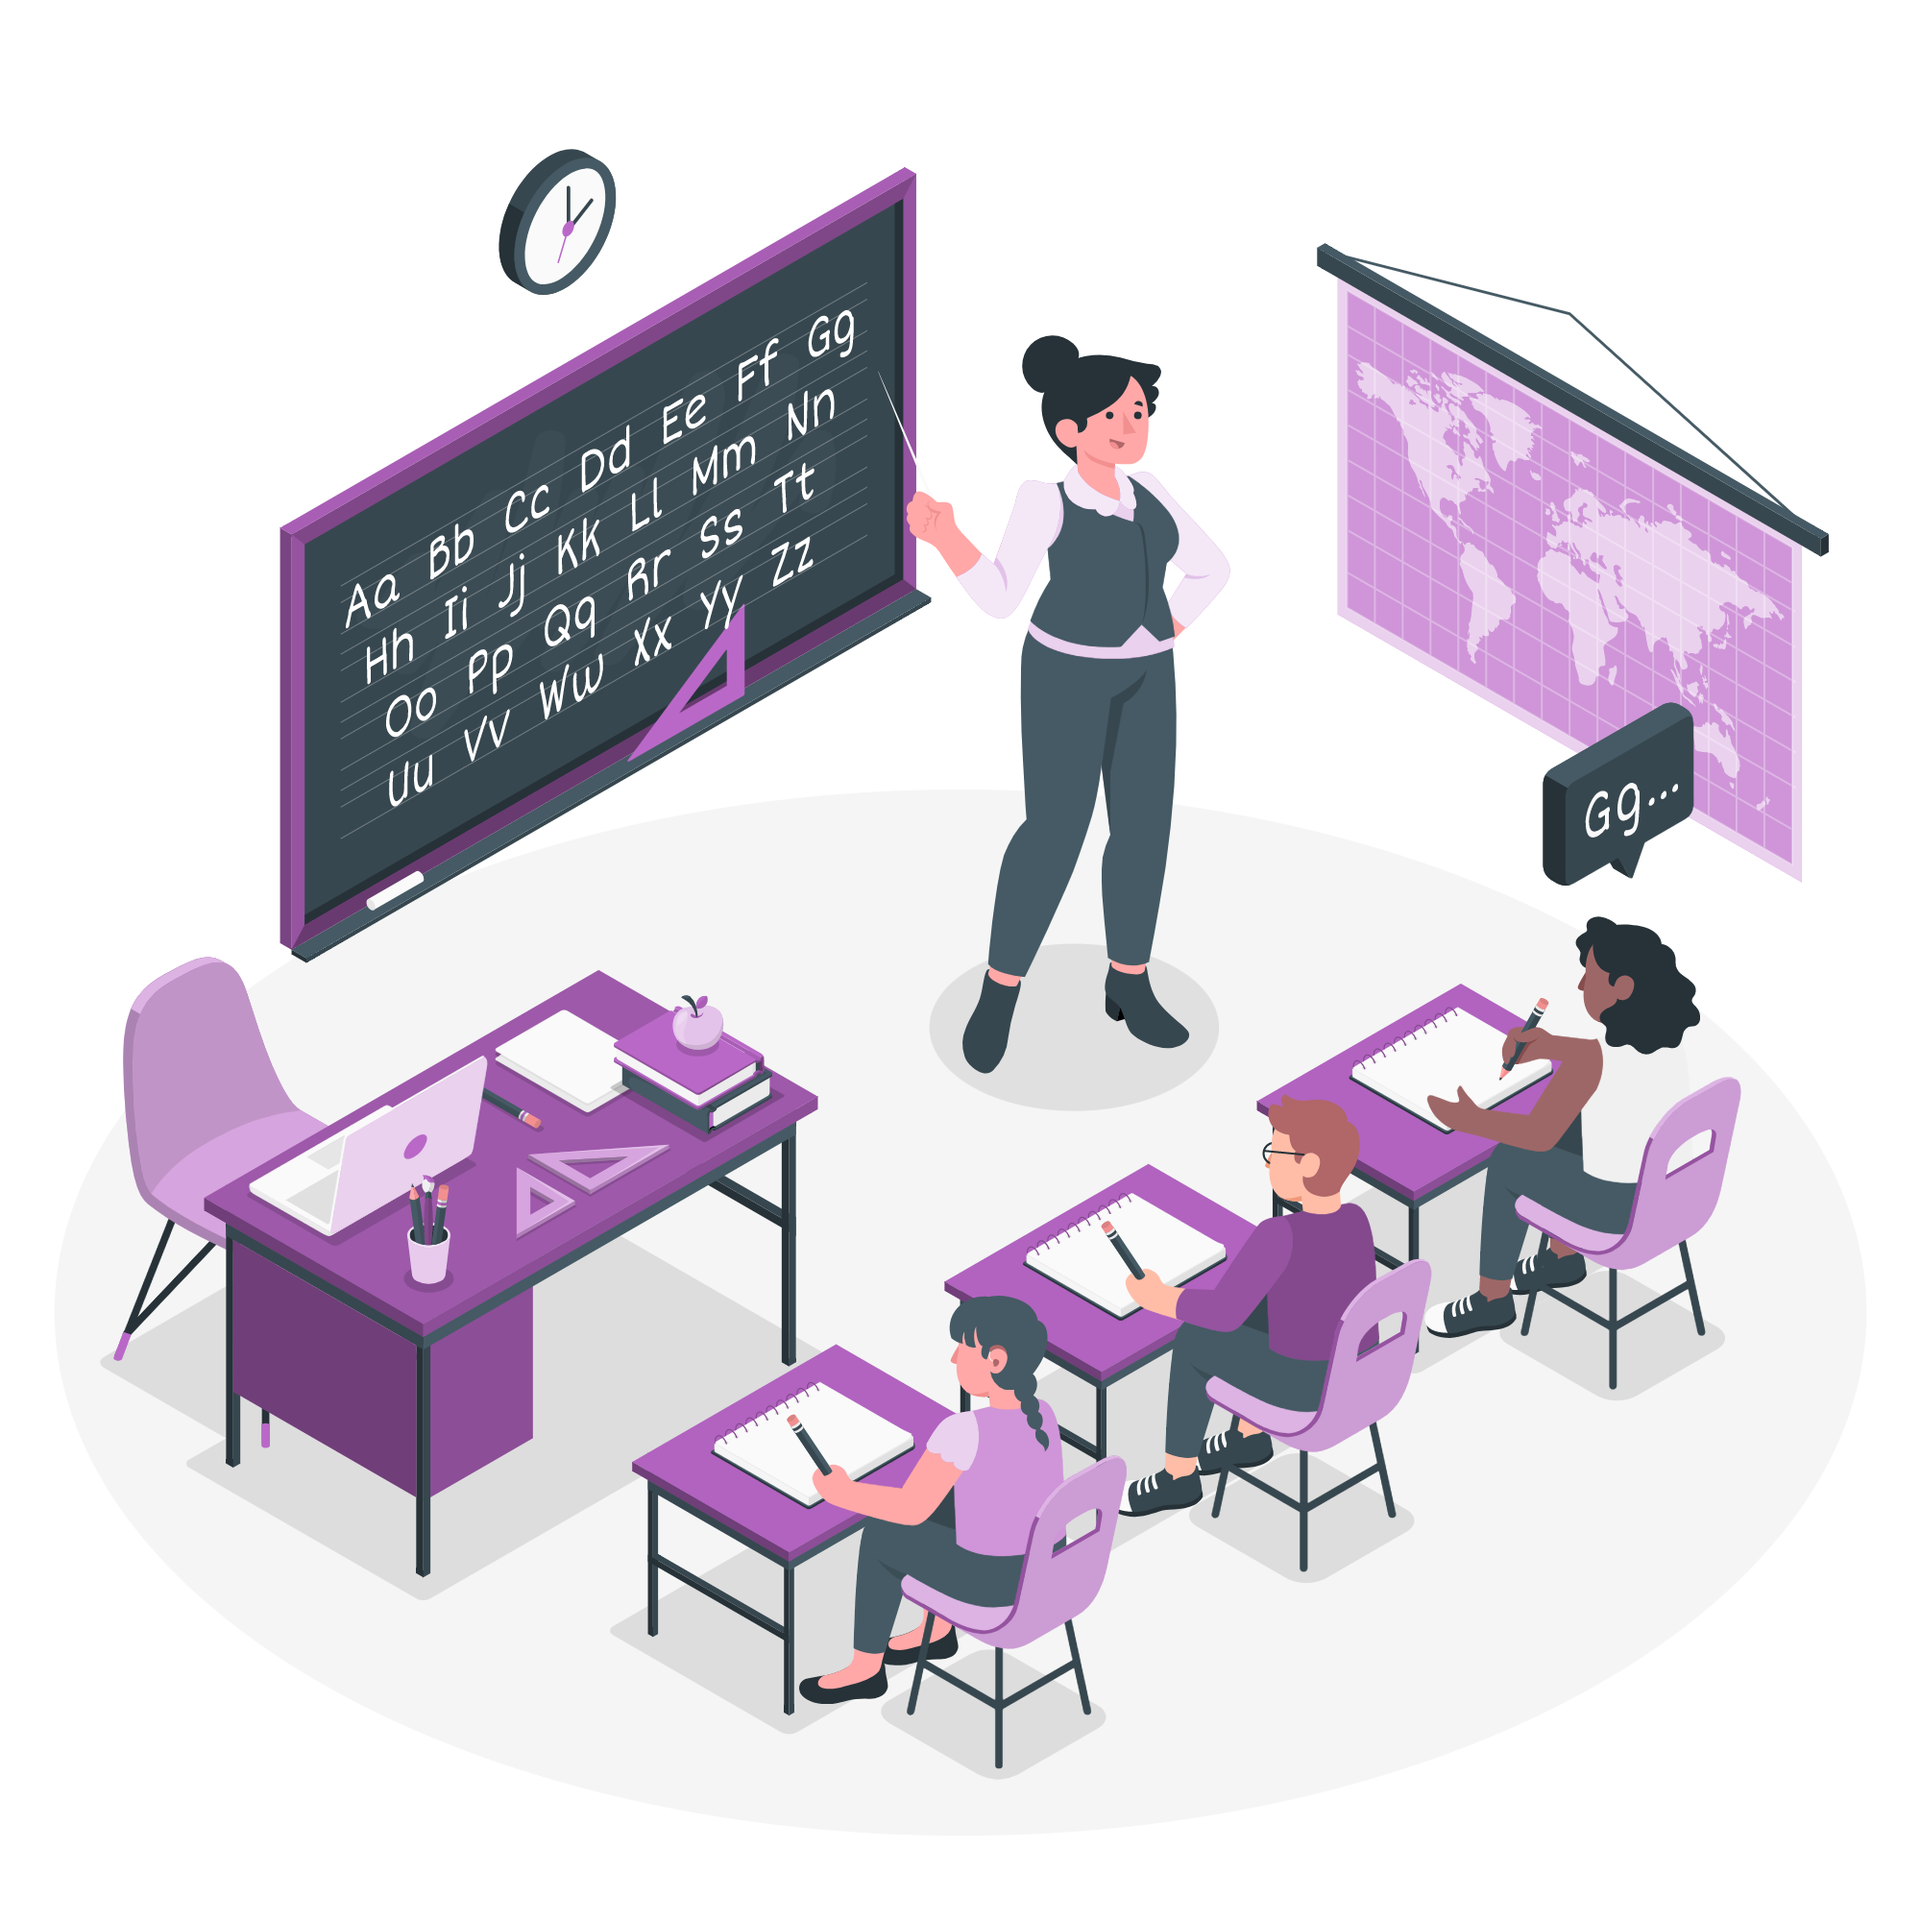
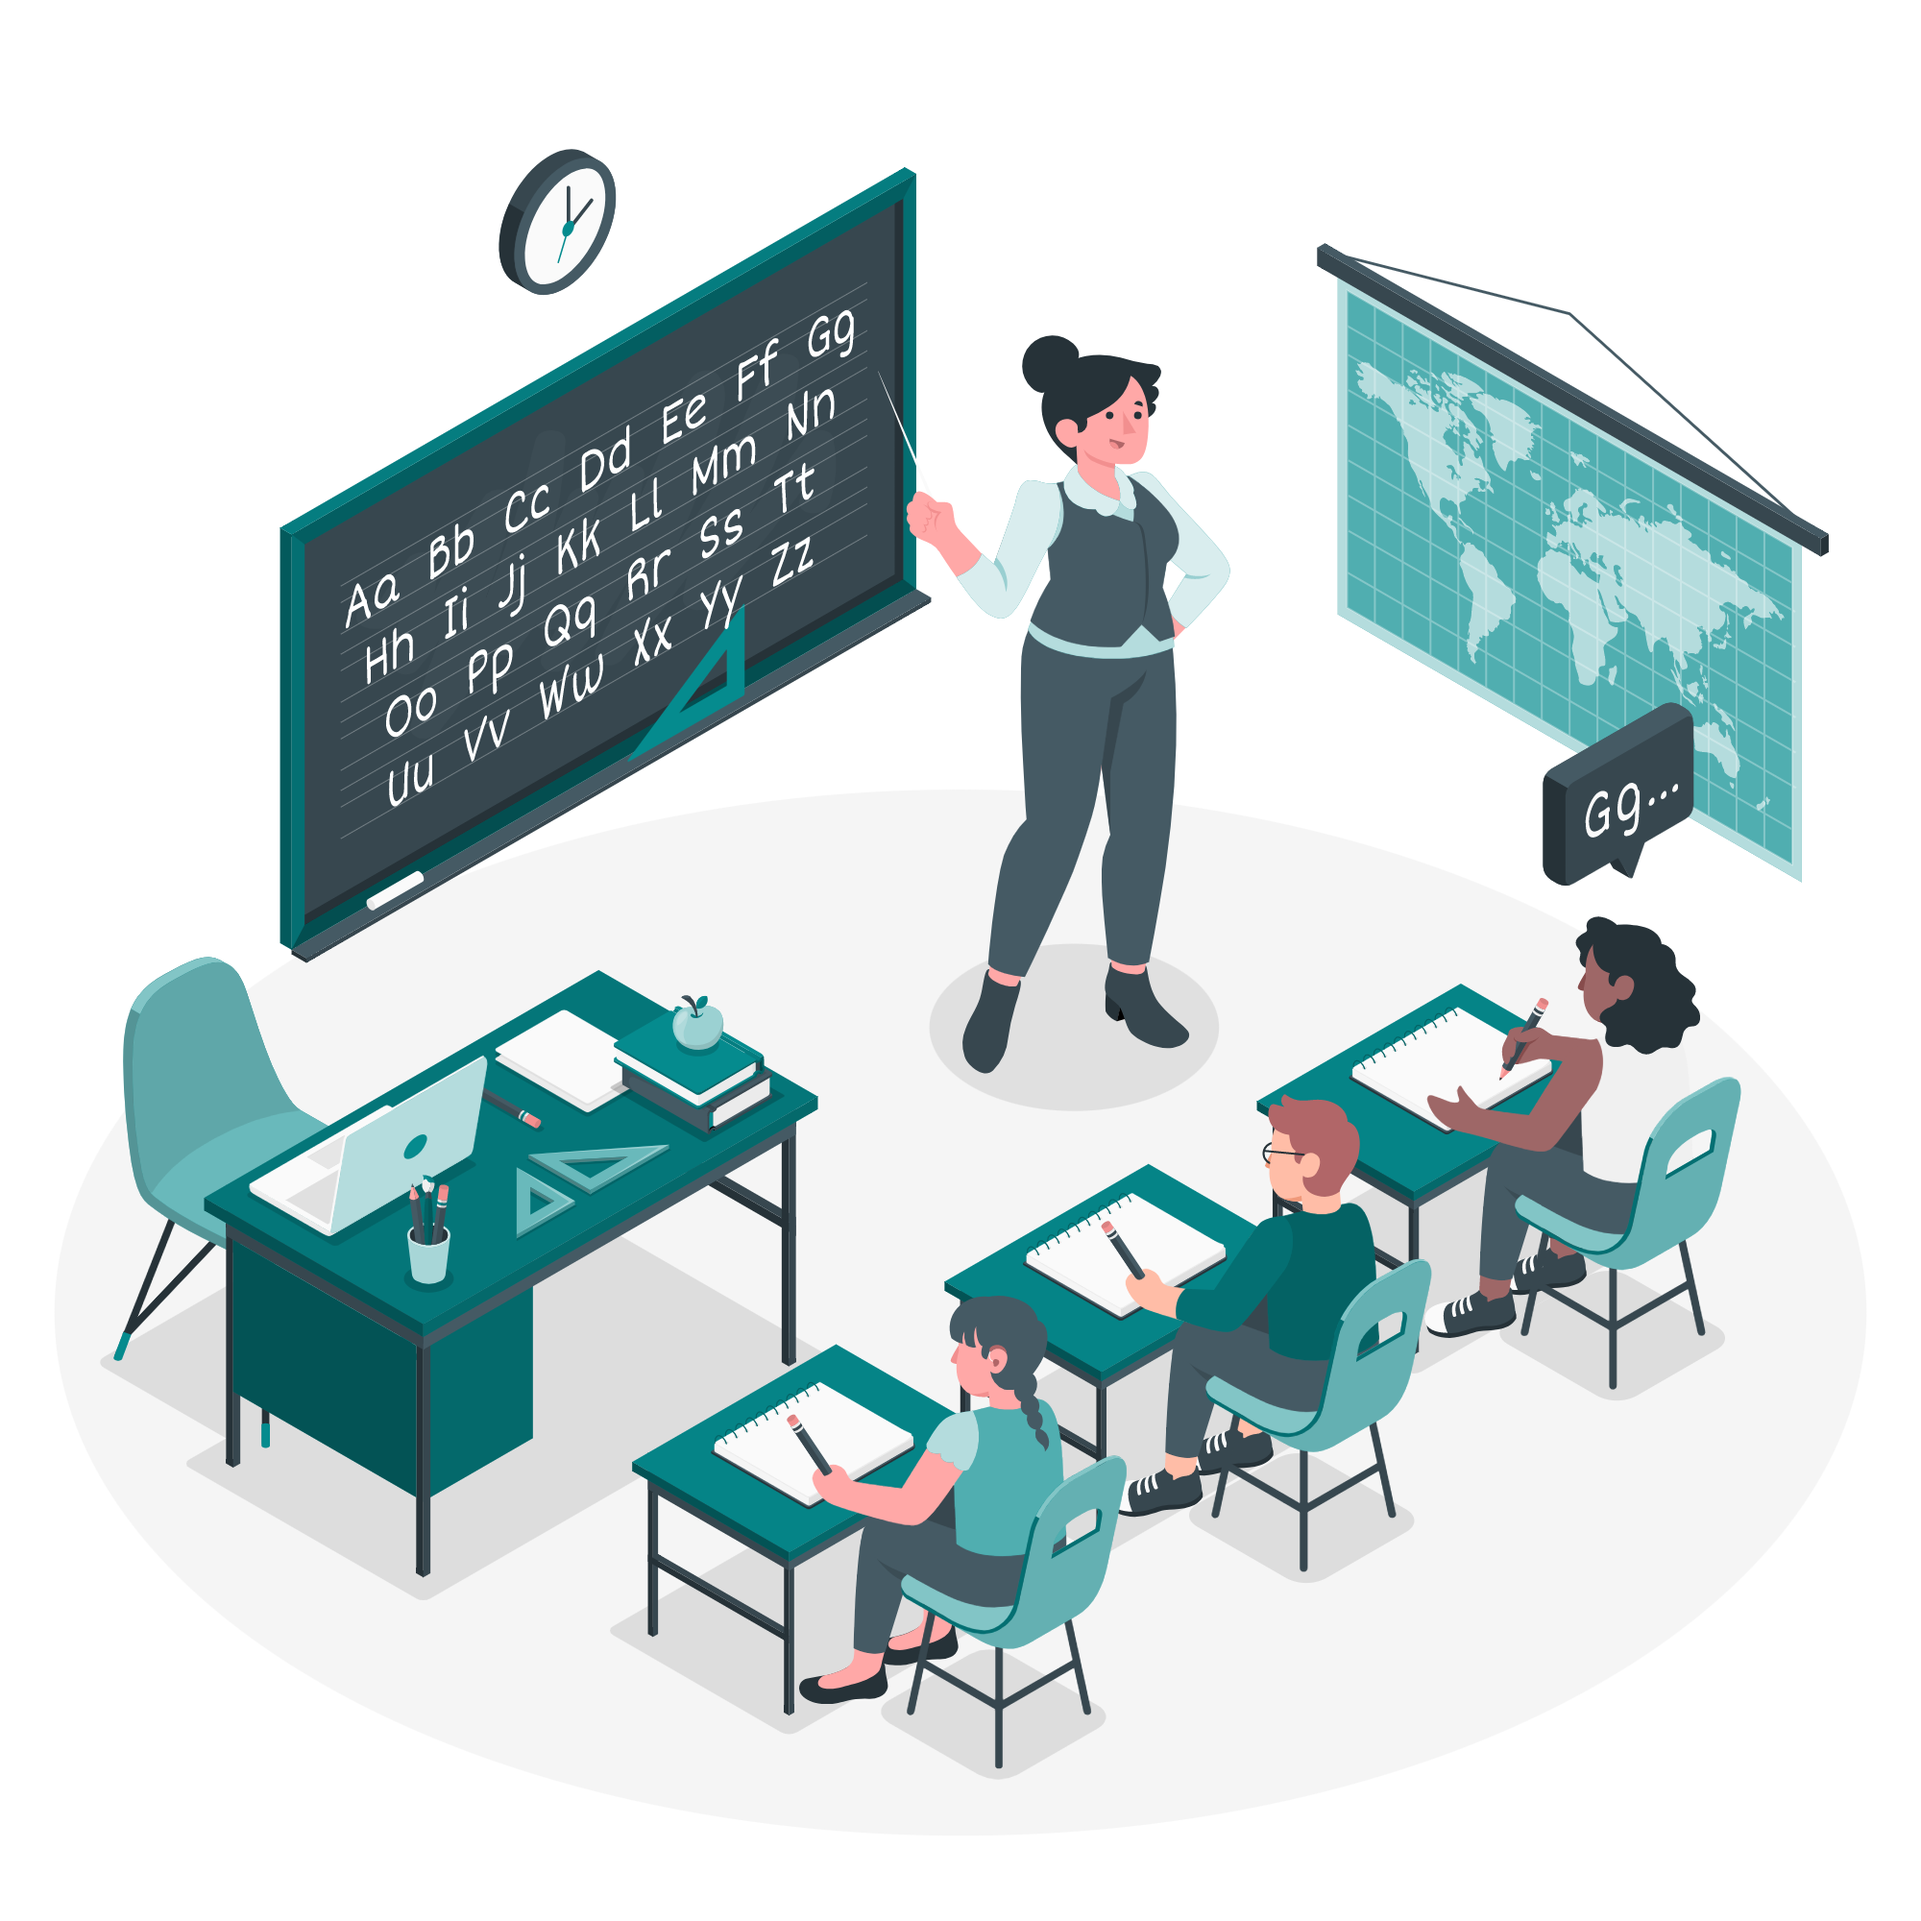
Add files via upload

diff --git a/style.css b/style.css
@@ -1,5 +1,12 @@
+*{
+    padding: 0;
+    margin: 0;
+}
+
+
+
 body{
-    background-color:#5c0994;
+    background-color:#09698f;
     color: #fdfdfd;
 }
 
@@ -13,7 +20,7 @@ body{
 .cabeçalho-lista-item{
         display: inline-block;
         margin: 0 18px;
-        font-size: 24px;
+        font-size: 30px;
 }
 
 .logo{
@@ -23,11 +30,14 @@ body{
     width: 25%;
 }
 .escola{
-    background-image: linear-gradient(#5c0994,#a540b3);
+    background-image: linear-gradient(#09698f,#20aeb3);
     justify-content: center;
     align-items: center;
+    display: flex;
 }
 .escola-conteudo{
     width: 35%;
 }
-
+.escola-titulo{
+    padding: 24px 0;
+}

diff --git a/index.html b/index.html
@@ -15,7 +15,7 @@
         </ul>
     </header>
     <div class="escola-conteudo">
-        <h2>Sobre a escola</h2>
+        <h2 class="escola-titulo">Sobre a escola</h2>
         <p class="escola-texto-um">A escola Alura foi fundada em 2010 com o objetivo de ensinar Pensamento Computacional através da Programação. </p>
         <p class="escola-texto-dois">A turma mais famosa é a Segunda Série A. Uma turma diversa e engajada, as vezes, um pouco bagunceira, mas que entrega excelentes resultados!</p>
     </div>
